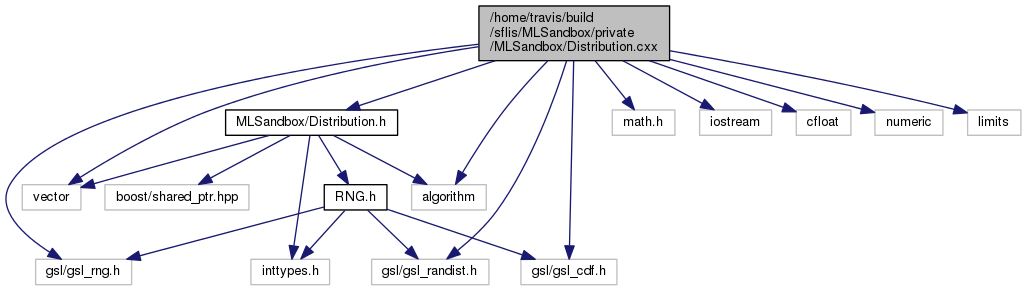
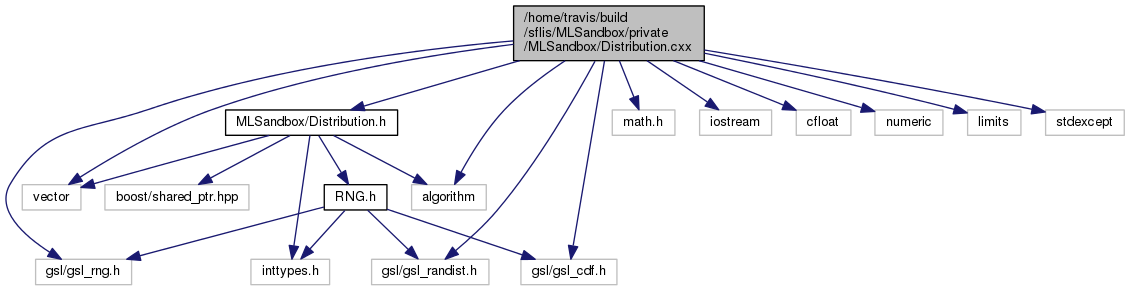
Deploy code docs to GitHub Pages Travis build: 20
Commit: f65b15a7491ac83bca364b2ae297621a0b83cd55

diff --git a/html/Distribution_8h_source.html b/html/Distribution_8h_source.html
@@ -207,7 +207,7 @@ var searchBox = new SearchBox("searchBox", "search",false,'Search');
 <div class="ttc" id="classDistribution_html_a9cc42751d710907d76d97813b8fa8697"><div class="ttname"><a href="classDistribution.html#a9cc42751d710907d76d97813b8fa8697">Distribution::SetCDFSampling</a></div><div class="ttdeci">void SetCDFSampling(bool set)</div><div class="ttdef"><b>Definition:</b> Distribution.h:76</div></div>
 <div class="ttc" id="Distribution_8h_html_ab7b6b8c6018ab181645199038b0dba3a"><div class="ttname"><a href="Distribution_8h.html#ab7b6b8c6018ab181645199038b0dba3a">addDistributions</a></div><div class="ttdeci">void addDistributions(double w1, Distribution const &amp;dst1, double w2, Distribution const &amp;dst2, Distribution &amp;target)</div><div class="ttdef"><b>Definition:</b> Distribution.h:105</div></div>
 <div class="ttc" id="classDistribution_html_ab7b6b8c6018ab181645199038b0dba3a"><div class="ttname"><a href="classDistribution.html#ab7b6b8c6018ab181645199038b0dba3a">Distribution::addDistributions</a></div><div class="ttdeci">friend void addDistributions(double w1, Distribution const &amp;dst1, double w2, Distribution const &amp;dst2, Distribution &amp;target)</div><div class="ttdef"><b>Definition:</b> Distribution.h:105</div></div>
-<div class="ttc" id="classDistribution_html_a7671d190019f4e6d1014a561a9e3cc65"><div class="ttname"><a href="classDistribution.html#a7671d190019f4e6d1014a561a9e3cc65">Distribution::Distribution</a></div><div class="ttdeci">Distribution(Distribution const &amp;base, boost::shared_ptr&lt; RNG &gt; rng)</div><div class="ttdef"><b>Definition:</b> Distribution.cxx:15</div></div>
+<div class="ttc" id="classDistribution_html_a7671d190019f4e6d1014a561a9e3cc65"><div class="ttname"><a href="classDistribution.html#a7671d190019f4e6d1014a561a9e3cc65">Distribution::Distribution</a></div><div class="ttdeci">Distribution(Distribution const &amp;base, boost::shared_ptr&lt; RNG &gt; rng)</div><div class="ttdef"><b>Definition:</b> Distribution.cxx:16</div></div>
 <div class="ttc" id="classDistribution_html_a14d717bbe93f876772eead67bd413f2b"><div class="ttname"><a href="classDistribution.html#a14d717bbe93f876772eead67bd413f2b">Distribution::ValueToBin</a></div><div class="ttdeci">uint64_t ValueToBin(double x)</div><div class="ttdoc">Returns the bin index of the binned pdf corresponding to the givem value. </div><div class="ttdef"><b>Definition:</b> Distribution.h:64</div></div>
 </div><!-- fragment --></div><!-- contents -->
 <!-- start footer part -->

diff --git a/html/MLSandbox_2Distribution_8cxx.html b/html/MLSandbox_2Distribution_8cxx.html
@@ -99,6 +99,7 @@ var searchBox = new SearchBox("searchBox", "search",false,'Search');
 <code>#include &lt;algorithm&gt;</code><br/>
 <code>#include &lt;numeric&gt;</code><br/>
 <code>#include &lt;limits&gt;</code><br/>
+<code>#include &lt;stdexcept&gt;</code><br/>
 </div><div class="textblock"><div class="dynheader">
 Include dependency graph for Distribution.cxx:</div>
 <div class="dyncontent">

diff --git a/latex/refman.tex b/latex/refman.tex
@@ -67,8 +67,8 @@
 \fancyhead[RO]{\fancyplain{}{\bfseries\thepage}}
 \fancyfoot[LE]{\fancyplain{}{}}
 \fancyfoot[CE]{\fancyplain{}{}}
-\fancyfoot[RE]{\fancyplain{}{\bfseries\scriptsize Generated on Sat Aug 12 2017 17\-:18\-:18 for My Project by Doxygen }}
-\fancyfoot[LO]{\fancyplain{}{\bfseries\scriptsize Generated on Sat Aug 12 2017 17\-:18\-:18 for My Project by Doxygen }}
+\fancyfoot[RE]{\fancyplain{}{\bfseries\scriptsize Generated on Sat Aug 12 2017 22\-:13\-:32 for My Project by Doxygen }}
+\fancyfoot[LO]{\fancyplain{}{\bfseries\scriptsize Generated on Sat Aug 12 2017 22\-:13\-:32 for My Project by Doxygen }}
 \fancyfoot[CO]{\fancyplain{}{}}
 \fancyfoot[RO]{\fancyplain{}{}}
 \renewcommand{\footrulewidth}{0.4pt}
@@ -120,7 +120,7 @@
 \vspace*{1cm}
 {\large Generated by Doxygen 1.8.6}\\
 \vspace*{0.5cm}
-{\small Sat Aug 12 2017 17:18:18}\\
+{\small Sat Aug 12 2017 22:13:32}\\
 \end{center}
 \end{titlepage}
 \clearemptydoublepage

diff --git a/latex/MLSandbox_2Distribution_8cxx.tex b/latex/MLSandbox_2Distribution_8cxx.tex
@@ -12,6 +12,7 @@
 {\ttfamily \#include $<$algorithm$>$}\\*
 {\ttfamily \#include $<$numeric$>$}\\*
 {\ttfamily \#include $<$limits$>$}\\*
+{\ttfamily \#include $<$stdexcept$>$}\\*
 Include dependency graph for Distribution.\-cxx\-:
 \nopagebreak
 \begin{figure}[H]
